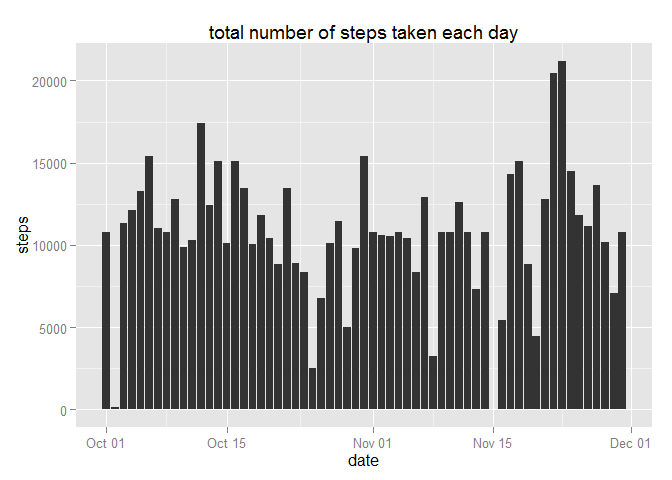
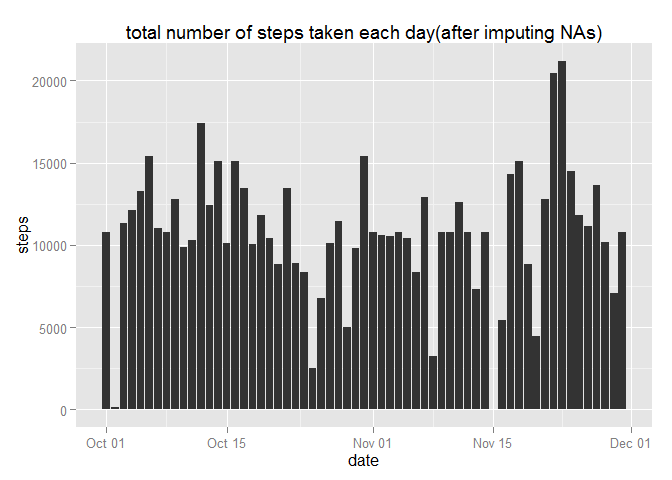
improved plot names.

Changed region(s): [[0.1875, 0.0312, 0.9062, 0.0938]]

diff --git a/PA1_template.html b/PA1_template.html
@@ -113,8 +113,8 @@ imputeNA &lt;- function(input, map){
 }
 out &lt;- imputeNA(data, dataperinterval)</code></pre>
 <p>Requireed histogram is ploted by the following code:</p>
-<pre class="r"><code>qplot(date, steps, data = out, geom = &quot;histogram&quot;, stat = &quot;identity&quot;, main=&quot;total number of steps taken each day&quot;)</code></pre>
[1 lines of base64/hex data omitted]
+<pre class="r"><code>qplot(date, steps, data = out, geom = &quot;histogram&quot;, stat = &quot;identity&quot;, main=&quot;total number of steps taken each day(after imputing NAs)&quot;)</code></pre>
[1 lines of base64/hex data omitted]
 <p>Mean and median can be calculated wwith summary function.</p>
 <pre class="r"><code>outdataperday &lt;- aggregate( steps ~ date, out, sum)
 summary(outdataperday$steps)</code></pre>

diff --git a/PA1_template.md b/PA1_template.md
@@ -89,7 +89,7 @@ out <- imputeNA(data, dataperinterval)
 Requireed histogram is ploted by the following code:
 
 ```r
-qplot(date, steps, data = out, geom = "histogram", stat = "identity", main="total number of steps taken each day")
+qplot(date, steps, data = out, geom = "histogram", stat = "identity", main="total number of steps taken each day(after imputing NAs)")
 ```
 
 ![](PA1_template_files/figure-html/unnamed-chunk-6-1.png) 
